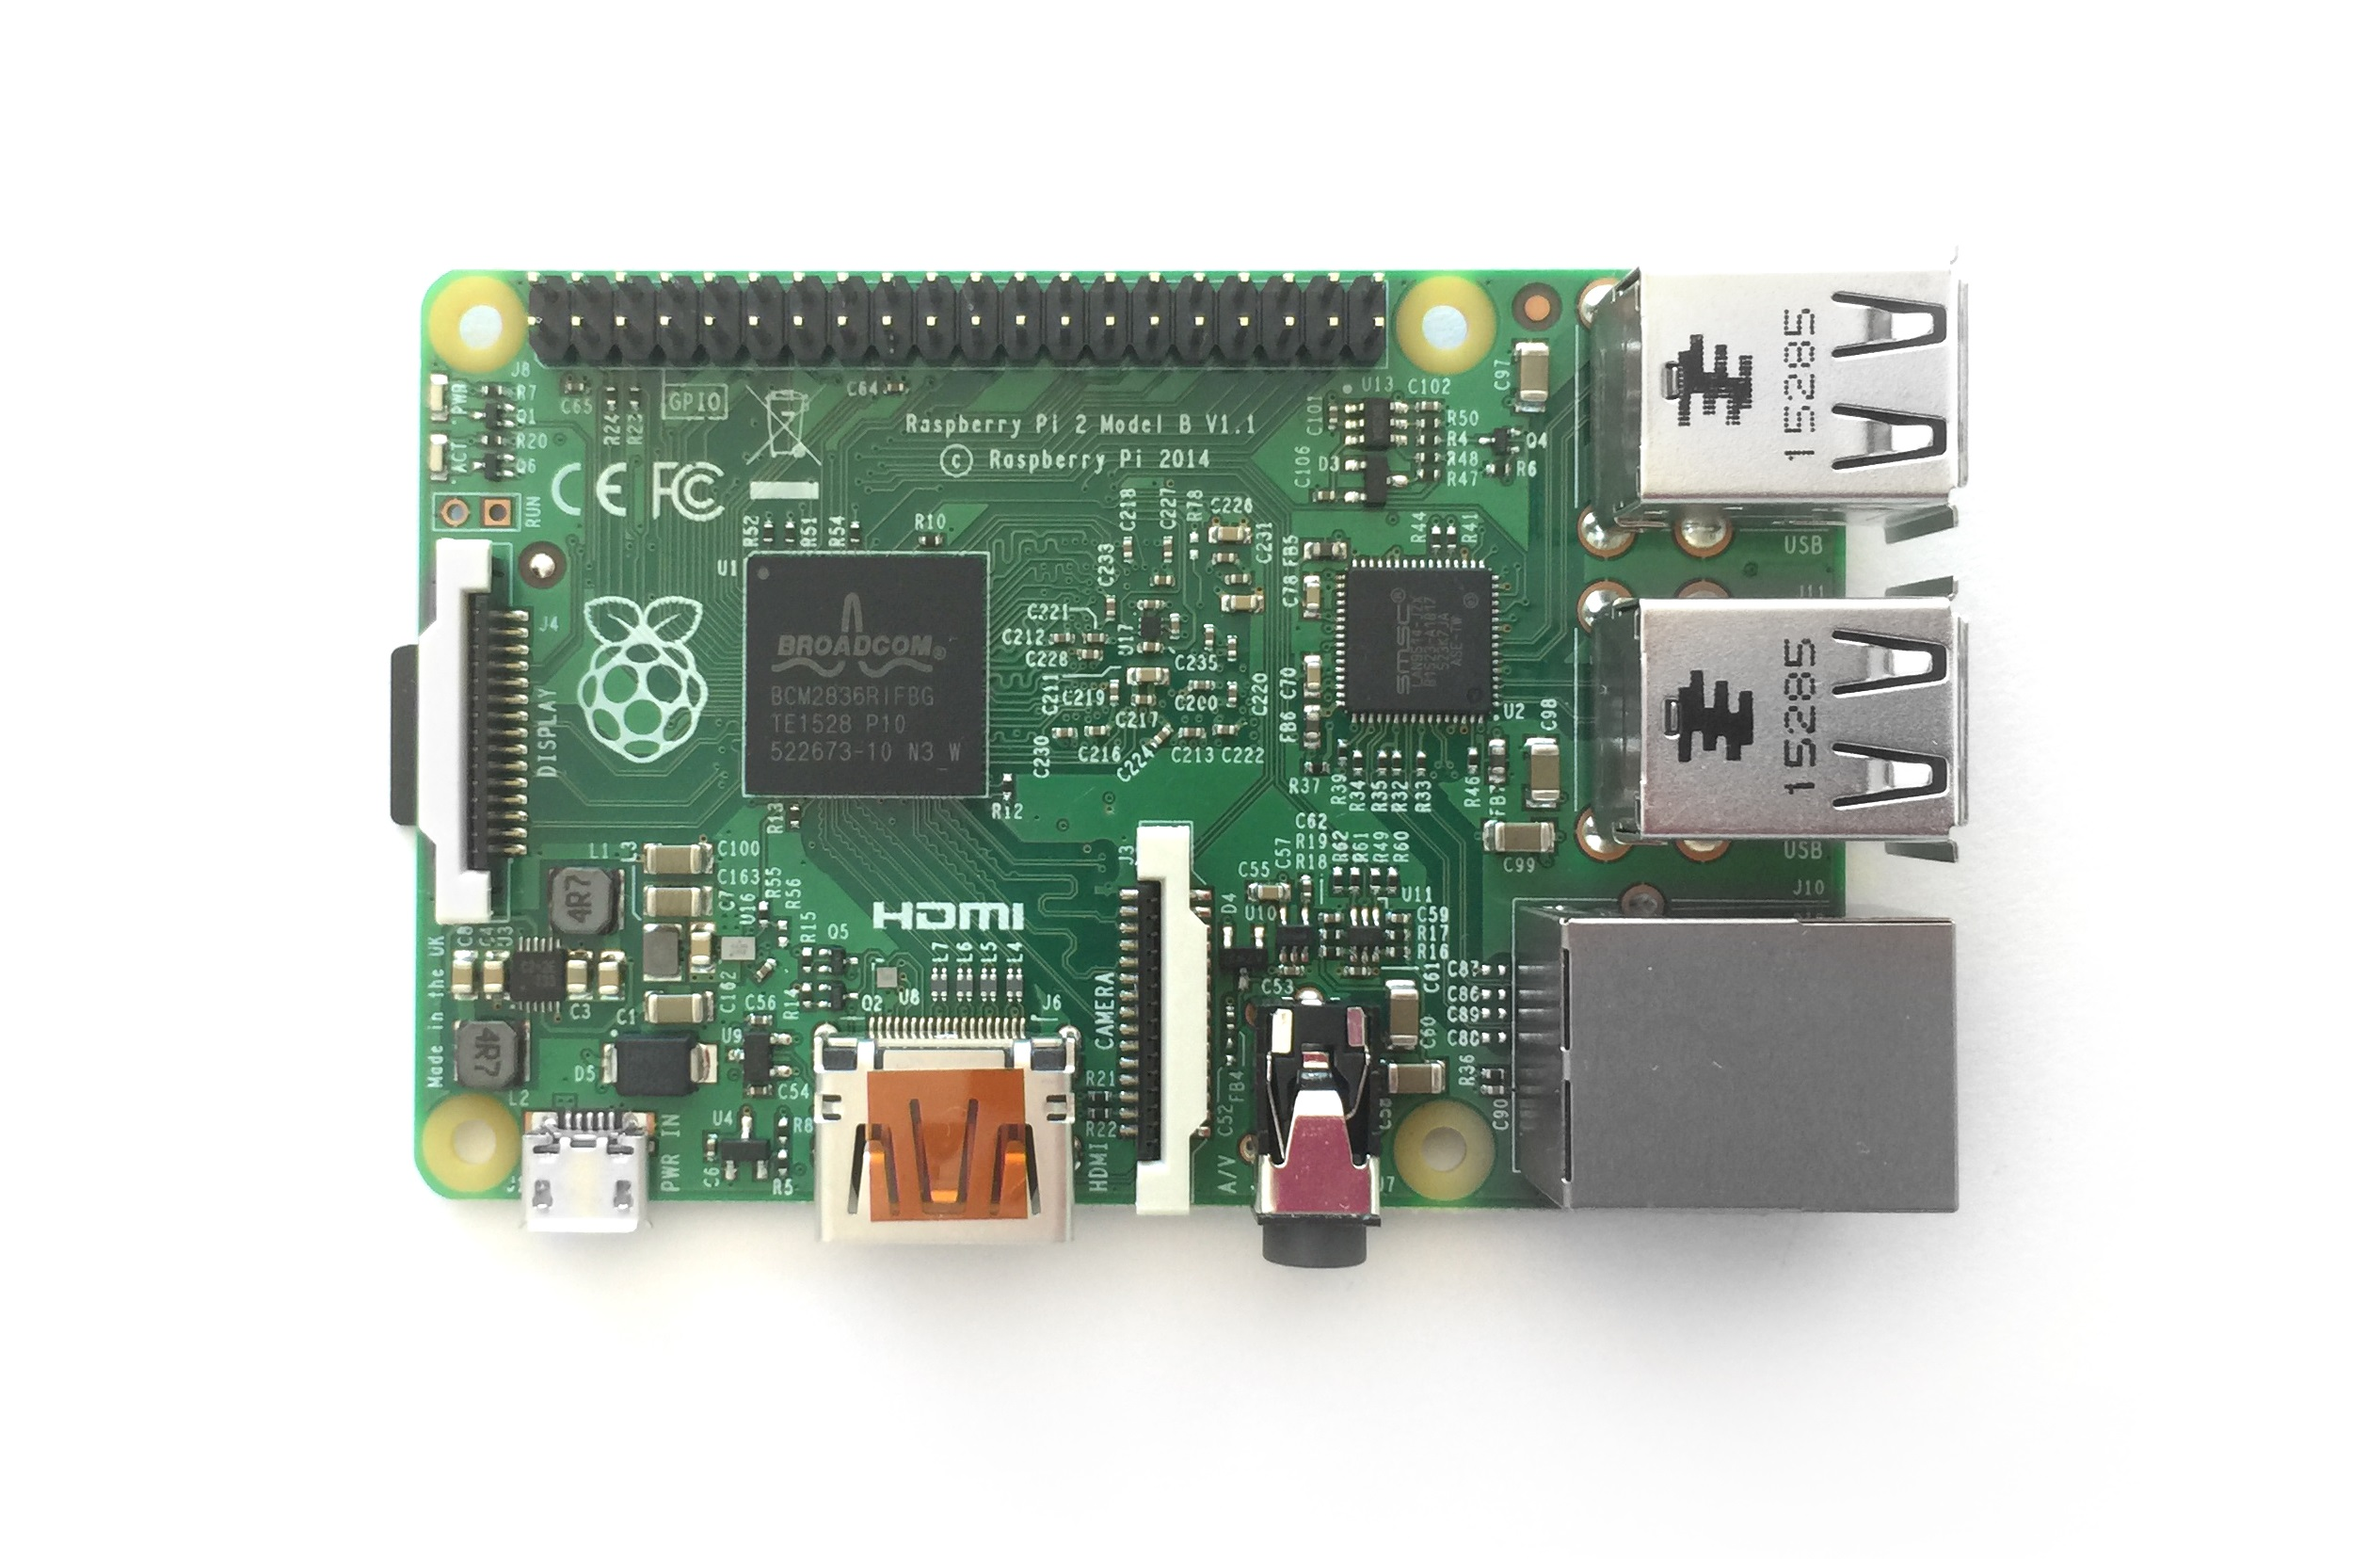
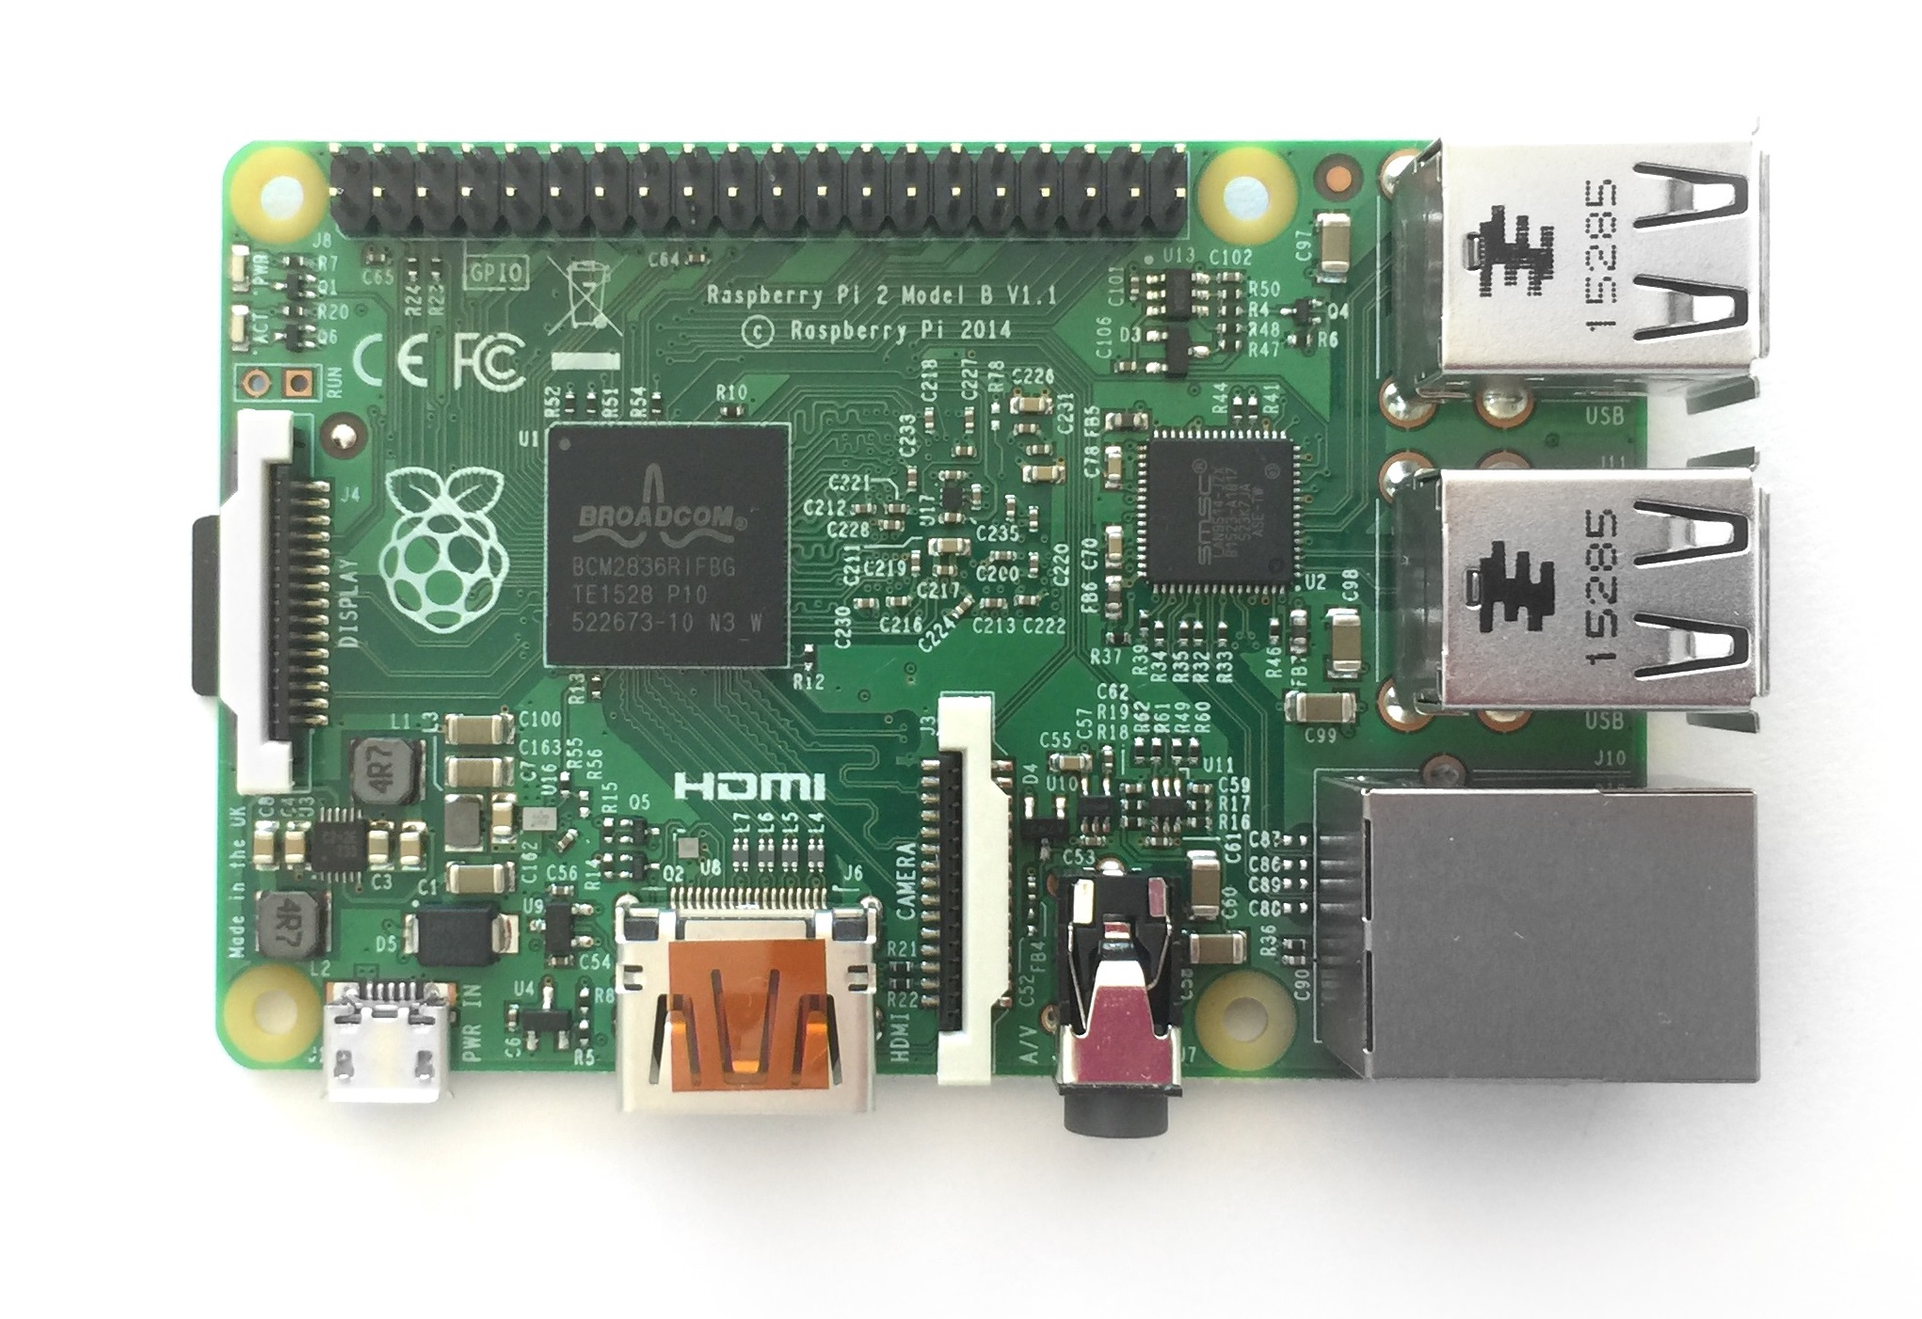
Update readme

diff --git a/README.md b/README.md
@@ -7,12 +7,12 @@ HA4IoT (Home Automation for Internet of Things) is an Open Source Home Automatio
 
 ## Raspberry Pi
 <p align="center">
-  <img src="https://github.com/chkr1011/HA4IoT/blob/feature/feature-rebuild/Documentation/Images/Pi2.JPG?raw=true" width="256">
+  <img src="https://github.com/chkr1011/HA4IoT/blob/feature/feature-rebuild/Documentation/Images/Pi2.JPG?raw=true" width="512">
 </p>
 The core application of this project is running under Windows 10 IoT Core which is available for free and runs on a Raspberry Pi 2/3 for example. But any other compatible board is supported.
 
 ## Amazon Alexa support
-This project contains a _Custom Skill_ for Amazon Alexa (Echo and Echo Dot) which allows controlling actuators via speech commands and ask for sensor status like open windows etc.
+This project contains a _Custom Skill_ for Amazon Alexa (Echo and Echo Dot) which allows controlling actuators via speech commands and ask for sensor status like open windows etc. A demonstration is available here: https://www.youtube.com/watch?v=9089vAgu2pQ.
 
 ## CCTools support
 <p align="center">
